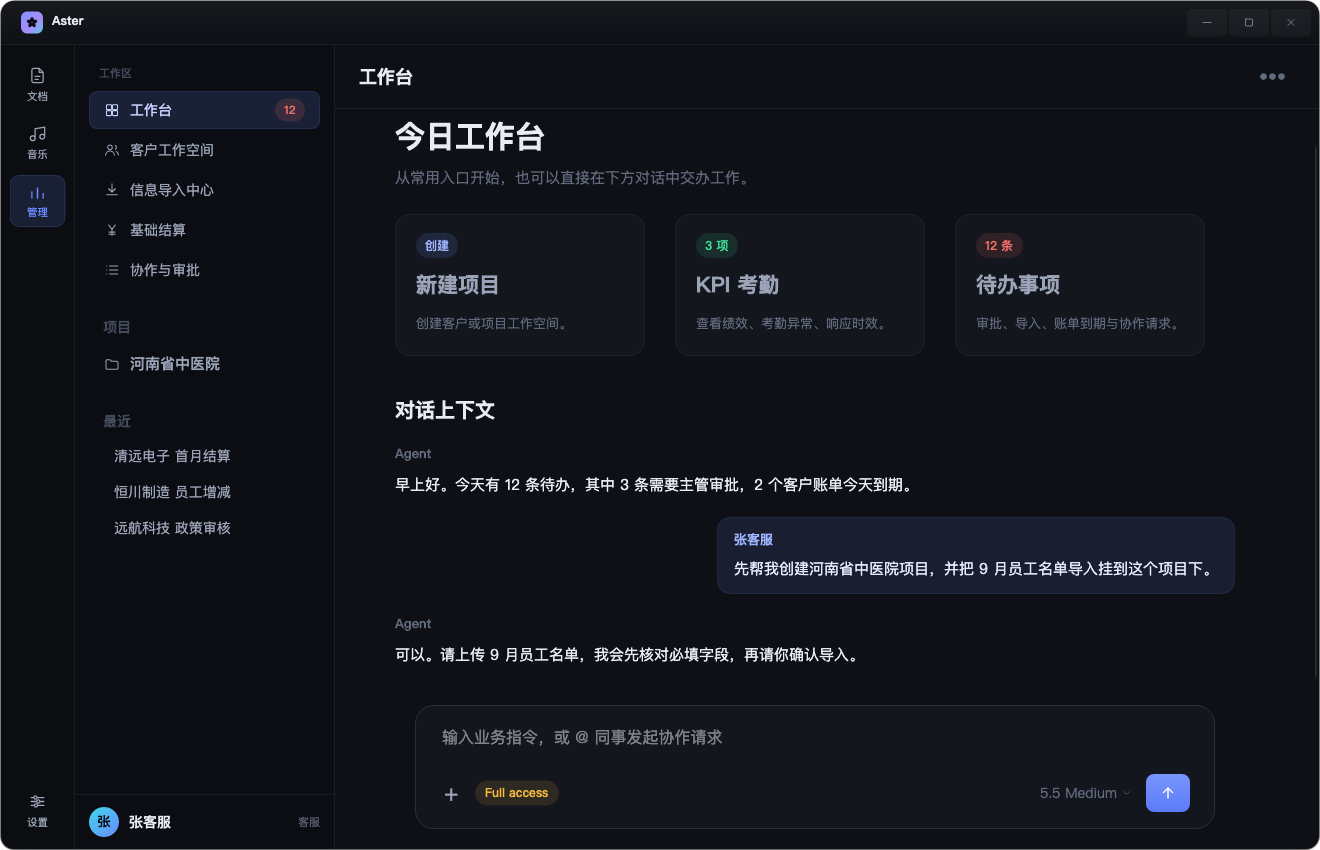
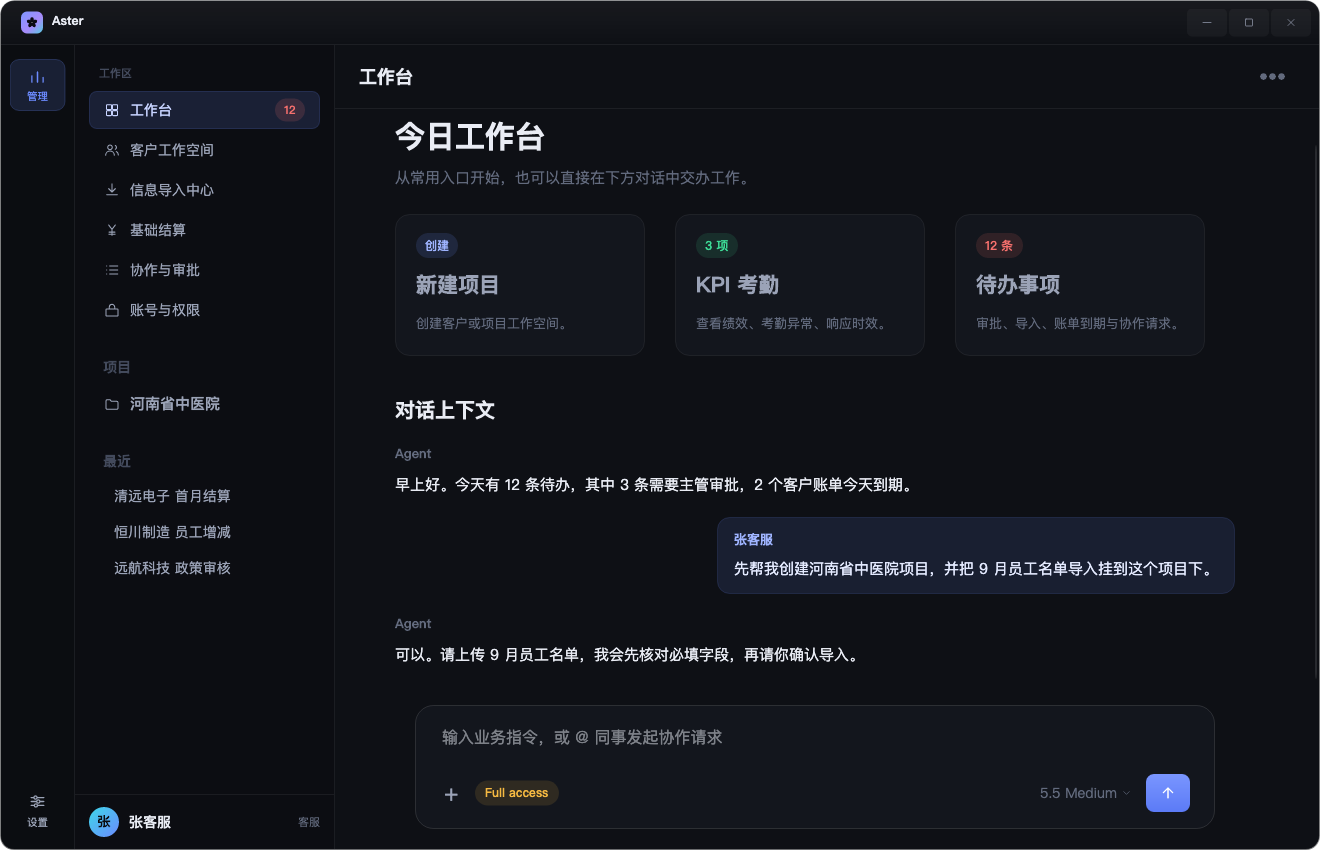
feat: 登录后默认进入管理，文档与音乐模块暂时关闭
- 一级导航只保留「管理」「设置」，默认选中管理；登录成功直接进入管理 · 今日工作台
- 不再创建 MarkdownViewModel / MusicViewModel（音乐计时器不再空转），视图与 ViewModel 保留在仓库中便于恢复
- 标题栏 Logo 改为静态品牌标识，不再跳转工作台总览
- README 标注文档/音乐为暂未启用，并说明恢复方式

Changed region(s): [[0.0621, 0.4894, 0.1864, 0.6729], [0.0, 0.0612, 0.0621, 0.2753], [0.0621, 0.3365, 0.1864, 0.4894]]

diff --git a/Dome/Aster/ViewModels/MainWindowViewModel.cs b/Dome/Aster/ViewModels/MainWindowViewModel.cs
@@ -43,7 +43,6 @@ public sealed class MainWindowViewModel : ObservableObject
             if (o is RailItem item) SelectModule(item);
         });
         OpenSettingsCommand = new RelayCommand(() => IsSettingsOpen = true);
-        ShowHomeCommand = new RelayCommand(ShowHome);
         CloseSettingsCommand = new RelayCommand(() => IsSettingsOpen = false);
         LoginCommand = new RelayCommand(Login, () => !IsBusy);
         LogoutCommand = new RelayCommand(() =>
@@ -60,25 +59,21 @@ public sealed class MainWindowViewModel : ObservableObject
         CopyAdminCommand = new RelayCommand(() => IsAdminCopied = true);
 
         Home = new HomeViewModel();
-        Markdown = new MarkdownViewModel();
-        MusicResult = new MusicViewModel();
         Admin = new AdminViewModel();
         Settings = new SettingsViewModel(LogoutCommand);
 
+        // 文档 / 音乐模块暂时关闭，只保留管理与设置
         RailItems = new ObservableCollection<RailItem>
         {
-            new("md", "文档", Controls.Icons.DocText, SelectModuleCommand),
-            new("music", "音乐", Controls.Icons.Music, SelectModuleCommand),
             new("admin", "管理", Controls.Icons.Bars, SelectModuleCommand),
             new("settings", "设置", Controls.Icons.Sliders, OpenSettingsCommand)
         };
 
-        RailTop = new ObservableCollection<RailItem>(RailItems.Take(3));
-        RailSettings = RailItems[3];
+        RailTop = new ObservableCollection<RailItem>(RailItems.Take(1));
+        RailSettings = RailItems[1];
 
         SubNavEntries = new ObservableCollection<SubNavEntry>();
-        SubNavTitle = "工作台";
-        ActiveView = Home;
+        SelectModule(RailItems[0], true);
 
         var bootTimer = new DispatcherTimer { Interval = TimeSpan.FromMilliseconds(2000) };
         bootTimer.Tick += (_, _) =>
@@ -90,14 +85,11 @@ public sealed class MainWindowViewModel : ObservableObject
     }
 
     public HomeViewModel Home { get; }
-    public MarkdownViewModel Markdown { get; }
-    public MusicViewModel MusicResult { get; }
     public AdminViewModel Admin { get; }
     public SettingsViewModel Settings { get; }
 
     public ICommand SelectModuleCommand { get; }
     public ICommand OpenSettingsCommand { get; }
-    public ICommand ShowHomeCommand { get; }
     public ICommand CloseSettingsCommand { get; }
     public ICommand LoginCommand { get; }
     public ICommand LogoutCommand { get; }
@@ -149,17 +141,6 @@ public sealed class MainWindowViewModel : ObservableObject
     {
         get => _isSubNavVisible;
         private set => Set(ref _isSubNavVisible, value);
-    }
-
-    /// <summary>回到工作台首页。</summary>
-    private void ShowHome()
-    {
-        foreach (var r in RailItems) r.IsSelected = false;
-        _moduleKey = "home";
-        SubNavEntries.Clear();
-        SubNavTitle = "工作台";
-        IsSubNavVisible = false;
-        ActiveView = Home;
     }
 
     public object? ActiveView
@@ -286,32 +267,6 @@ public sealed class MainWindowViewModel : ObservableObject
 
         switch (item.Key)
         {
-            case "md":
-                SubNavTitle = "文档";
-                ActiveView = Markdown;
-                AddSubNav("all", "全部文档", Controls.Icons.Folder, "128");
-                AddSubNav("recent", "最近编辑", Controls.Icons.Clock, "5");
-                AddSubNav("star", "收藏夹", Controls.Icons.Star, "12");
-                AddSubNav("dirty", "未保存", Controls.Icons.Edit, "2");
-                SubNavEntries.Add(new SubNavGroupEntry("回收"));
-                AddSubNav("trash", "回收站", Controls.Icons.Trash, "0");
-                SelectSubNav("all");
-                break;
-
-            case "music":
-                SubNavTitle = "音乐";
-                ActiveView = MusicResult;
-                AddSubNav("m-all", "全部音乐", Controls.Icons.Music, "248");
-                AddSubNav("m-fav", "我喜欢的", Controls.Icons.Heart, "32");
-                AddSubNav("m-recent", "最近播放", Controls.Icons.Clock, "18");
-                AddSubNav("m-local", "本地文件", Controls.Icons.Hdd, "96");
-                SubNavEntries.Add(new SubNavGroupEntry("歌单"));
-                AddSubNav("pl-focus", "Focus Flow", Controls.Icons.List, "24");
-                AddSubNav("pl-night", "深夜编码", Controls.Icons.List, "41");
-                AddSubNav("pl-commute", "通勤电台", Controls.Icons.List, "12");
-                SelectSubNav("m-all");
-                break;
-
             default:
                 SubNavTitle = "工作区";
                 ActiveView = Admin;
@@ -355,27 +310,7 @@ public sealed class MainWindowViewModel : ObservableObject
         foreach (var entry in SubNavEntries.OfType<SubNavLinkEntry>())
             entry.IsSelected = entry.Key == key;
 
-        switch (_moduleKey)
-        {
-            case "md":
-                Markdown.FilterCommand.Execute(key);
-                break;
-            case "music":
-                MusicResult.FilterCommand.Execute(key switch
-                {
-                    "m-fav" => "收藏",
-                    "m-recent" => "最近",
-                    "m-local" => "专辑",
-                    "pl-focus" => "全部",
-                    "pl-night" => "全部",
-                    "pl-commute" => "全部",
-                    _ => "全部"
-                });
-                break;
-            default:
-                Admin.Select(key);
-                break;
-        }
+        Admin.Select(key);
     }
 
     // ===================== 登录动作 =====================
@@ -397,7 +332,7 @@ public sealed class MainWindowViewModel : ObservableObject
             timer.Stop();
             IsBusy = false;
             Stage = AppStage.App;
-            ShowHome();
+            SelectModule(RailItems[0], true);
         };
         timer.Start();
     }

diff --git a/README.md b/README.md
@@ -15,10 +15,12 @@
 | --- | --- |
 | **启动 / 登录** | 2 秒进度启动屏；账号密码登录、记住我、显示密码、忘记密码（两步弹窗）、联系管理员（两步弹窗） |
 | **工作台** | 问候区、四张指标卡、最近编辑、快捷操作、继续播放、今日节奏面积图 |
-| **文档** | 四级目录树（分组折叠 / 关键字搜索 / 按收藏·最近·未保存·回收站筛选）、多标签页、行号编辑器、Markdown 实时预览、编辑·分栏·预览三档视图 |
-| **音乐** | 歌单（全部/收藏/最近/专辑）、旋转唱片舞台、歌词、可拖动进度与音量、随机·循环、音频可视化柱状图、播放队列 |
+| **文档**（暂未启用，代码保留） | 四级目录树（分组折叠 / 关键字搜索 / 按收藏·最近·未保存·回收站筛选）、多标签页、行号编辑器、Markdown 实时预览、编辑·分栏·预览三档视图 |
+| **音乐**（暂未启用，代码保留） | 歌单（全部/收藏/最近/专辑）、旋转唱片舞台、歌词、可拖动进度与音量、随机·循环、音频可视化柱状图、播放队列 |
 | **管理** | 工作区布局：今日工作台（3 个快捷入口卡 + Agent 对话 + 指令输入框）；按区域拆成 6 条流程页（新建项目 / KPI 考勤 / 待办事项 / 员工记录核查 / 结算任务进度 / 审批节点），均为「对话 + 右侧上下文抽屉」两栏；另有客户工作空间、信息导入中心、账号与权限列表页 |
 | **设置** | 全屏模态，账号 / 通用 / 数据看板 / 成员与权限 / 通知 / 存储与备份 / 关于 七个分区 |
+
+> 当前构建只开放 **管理** 与 **设置**：登录后默认进入「管理 · 工作台」，左侧一级导航不再列出文档与音乐（视图与 ViewModel 仍在仓库中，去掉入口屏蔽即可恢复）。
 
 ## 界面预览
 
